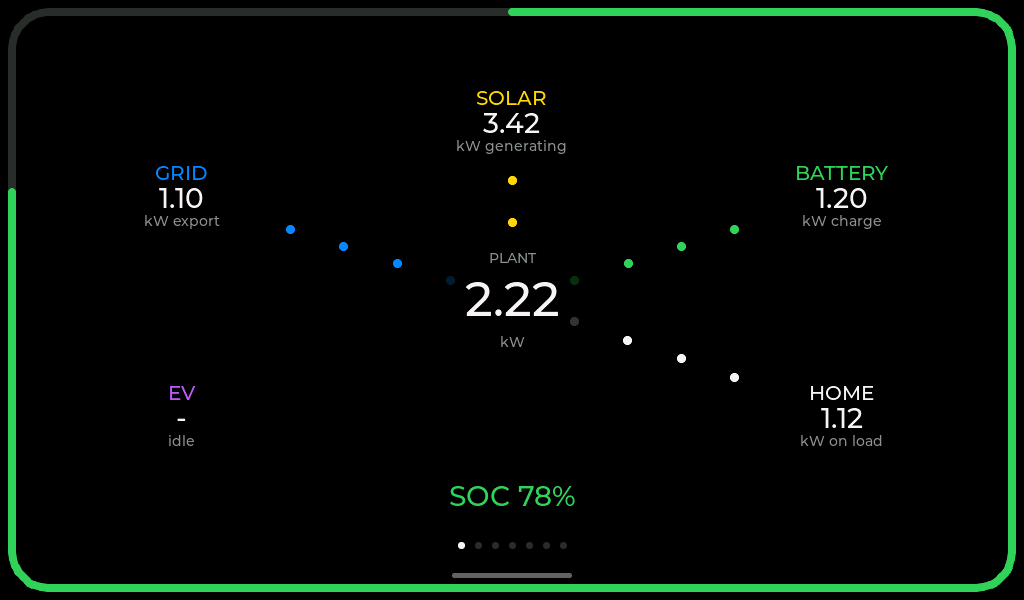
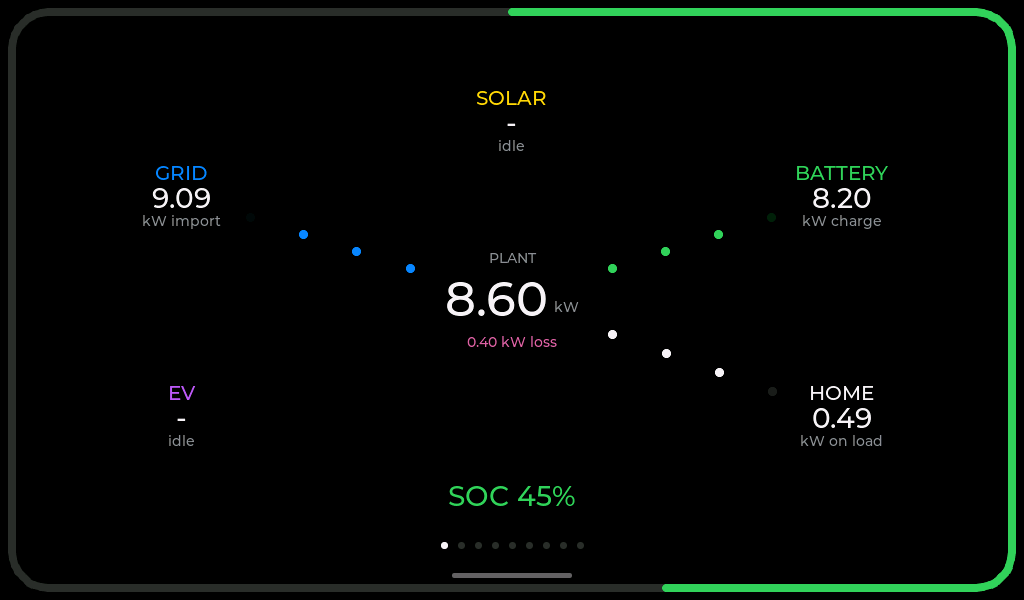
Describe AC-side house load and losses in the README
The loss line and LOSSES sink in the screen descriptions, the EV charger
setting and the formulas under Home Assistant, with fresh screenshots.
UPSTREAM.md logs the pull and adds the Home Assistant history gap: the
restored load curve still counts the losses as house.

diff --git a/README.md b/README.md
@@ -84,11 +84,11 @@ untouched.
 | | |
 |:--:|:--:|
 | <img src="docs/img/power.png" width="420" alt="Power flow"> | <img src="docs/img/battery.png" width="420" alt="Battery"> |
-| **Power**: what is happening right now. Solar at the top, battery and home to the right, grid and EV to the left, all around the plant in the middle. Dots run along each leg in the direction the power is going: slowly near zero, faster as it rises towards 20 kW. The bar around the edge is your battery's state of charge.<br><br>*Works on all three sources when the values are available.* | **Battery**: charge level, kWh stored, and what it is doing now, over the day's charge curve. Health and temperature on the right.<br><br>*Works on all three sources. On Modbus, temperature needs an inverter added under Devices; on Home Assistant, each figure needs its sensor chosen.* |
+| **Power**: what is happening right now. Solar at the top, battery and home to the right, grid and EV to the left, all around the plant in the middle, which shows its own power and, below it in pink, what the system is losing in conversion and standby. Dots run along each leg in the direction the power is going: slowly near zero, faster as it rises towards 20 kW. The bar around the edge is your battery's state of charge.<br><br>*Works on all three sources when the values are available.* | **Battery**: charge level, kWh stored, and what it is doing now, over the day's charge curve. Health and temperature on the right.<br><br>*Works on all three sources. On Modbus, temperature needs an inverter added under Devices; on Home Assistant, each figure needs its sensor chosen.* |
 | <img src="docs/img/solar.png" width="420" alt="Solar"> | <img src="docs/img/load.png" width="420" alt="Home use"> |
 | **Solar**: generated so far today and live output, over the day's curve with the forecast behind it. The forecast total and what is still to come are on the right. The bar around the edge is progress against the day's forecast.<br><br>*Works on all three sources.* | **Home use**: everything used today, with what is being drawn now and how self-sufficient you have been.<br><br>*Partial on Modbus and Home Assistant.* The total, live figure and locally recorded curve work. The breakdown by source needs a **SigenStorDisplay Server**. |
 | <img src="docs/img/grid.png" width="420" alt="Grid"> | <img src="docs/img/flows.png" width="420" alt="Energy flows"> |
-| **Grid**: imported and exported today, live frequency and voltage, and the day's import above the line and export below it.<br><br>*Works on all three sources.* Frequency and voltage need an inverter added on Modbus, and are not available from Home Assistant. | **Energy flows**: where today's energy came from and where it went. Sources down the left, destinations down the right, one ribbon per path.<br><br>**SigenStorDisplay Server only.** |
+| **Grid**: imported and exported today, live frequency and voltage, and the day's import above the line and export below it.<br><br>*Works on all three sources.* Frequency and voltage need an inverter added on Modbus, and are not available from Home Assistant. | **Energy flows**: where today's energy came from and where it went. Sources down the left, destinations down the right, one ribbon per path, including what the system itself lost on the way (SigenStorDisplay 0.47.3 onwards).<br><br>**SigenStorDisplay Server only.** |
 | <img src="docs/img/cost.png" width="420" alt="Cost"> | <img src="docs/img/events.png" width="420" alt="Events"> |
 | **Cost**: what you have saved today and the unit rate you are paying right now.<br><br>**SigenStorDisplay Server only.** | **Events**: Octopus Saving Sessions, Happy Hours, other free-import periods and Axle events. The live one, or else the next booked, in a card across the top, with the battery's run; the ones before it underneath, newest first, each with its result: how much was cut and the points, how much came in free, or what was exported and earned.<br><br>**SigenStorDisplay Server only**, from version 0.45.0. |
 | <img src="docs/img/environment.png" width="420" alt="Environment"> | |
@@ -228,8 +228,23 @@ access at once.
 4. **Sensors: Choose.** Tap each figure and pick its sensor from Home Assistant's own
    list. The list is filtered to sensors in a unit that figure can use, and shows each
    one's current value, so you can see which is live.
+5. **EV charger**, under EV power: tap it to step through **Auto**, **AC** and **DC**.
+   Only an AC charger is on the house wiring, so only an AC charger comes off house
+   load. Auto treats a sensor whose ID contains `dc_charger` as DC (Sigen's own DC
+   charger sensor) and anything else as AC, and shows which it chose.
 
-<p align="center"><img src="docs/img/settings-ha-sensors.png" width="480" alt="Picking the sensor for home power, with each sensor's name, entity ID and live value"></p>
+<p align="center"><img src="docs/img/settings-ha-sensors.png" width="480" alt="The Home Assistant sensors list: the sensor chosen for each figure, and the EV charger set to Auto, reading as DC"></p>
+
+**House load and losses.** With no home/load sensor chosen, the panel works house load
+out on the AC side, as SigenStorDisplay does: `home = max(0, grid + plant − AC charger)`.
+That leaves the system's own losses (conversion, standby, battery heating) out of the
+house figure and shows them under PLANT on the Power screen instead:
+`losses = PV − battery − plant − DC charger`. The plant's power is negative while it takes
+AC in. Without a plant sensor, house load falls back to `PV − battery + grid − EV`, which
+counts the losses as house, and no loss is shown. A home/load sensor you choose is used as
+it is; Sigen's own consumed-power sensor may count the losses as house, so leave it unread
+to have the panel do the AC-side sum. Modbus works the same way from the plant's
+registers, with the AC and DC chargers read apart.
 
 The panel sends one [`POST /api/template`](https://developers.home-assistant.io/docs/api/rest/#post-apitemplate)
 per reading. Home Assistant answers with only the chosen sensors and their units, so the

diff --git a/UPSTREAM.md b/UPSTREAM.md
@@ -139,6 +139,7 @@ one up, and delete the row once the pull lands and is in the pull log.
 | 2026-10-27, Phase 0a | `src/device/modbus_api.cpp` | Calls `NetworkClient::flush()`, which Arduino 3.3 deprecates in favour of `clear()`. Fix it when SigenStorPuck moves to 3.3.8 (step 3 of the plan above). The panel's own copy in `settings_server.cpp` went with the web interface | A deprecation warning on every panel build. It still works |
 | 2026-10-27, settings sheet | `src/device/updater.h` | Optional. The panel shows install progress, through its own `updater_progress.h` beside the verbatim header. If the Puck wants a progress ring too, add `updater_progress_percent()` to `updater.h` upstream and delete the panel's extra header | Nothing breaks: the panel's addition sits beside the shared header |
 | 2026-10-28, settings sheet | `src/enrol_url.{h,cpp}` | Optional. Take in `kiosk_code_tidy()` from the panel's `src/kiosk_code.{h,cpp}` (beside `enrol_url_parse()`, or as its own shared file) and use it on the web page's token field. The header also predates v0.38: it says the device never asks for the server and token apart, and calls the token 43 characters. Codes are now 20 | The panel keeps its own `kiosk_code.{h,cpp}`. The Puck's web page saves a typed code as given, spaces and capitals included; the server still matches it |
+| 2026-11-26, losses | `src/home_assistant_history.{h,cpp}` | The day's load curve restored from Home Assistant's history is still `PV − battery + grid` when no home sensor is chosen, so it counts the system's losses as house. Since 0.17.1 the live figure is AC-side. Fetch the plant sensor's history too, and use `grid + plant + DC charger` (house plus EV, as the Load series holds), with `ha_ev_is_dc()` saying which kind the EV sensor is | On Home Assistant with no home sensor, the restored part of today's Home use curve sits higher than the live part by the losses, about 0.4 kW on a grid-charging night |
 | 2026-10-27, Phase 0a | `src/display.h`, `src/touch.h` | Their comments describe the CO5300 panel and CST9217 touch. The contract is generic, so describe it generically | Comments name the wrong chips. The functions are right |
 
 ## Pull log
@@ -149,4 +150,5 @@ one up, and delete the row once the pull lands and is in the pull log.
 | 2026-10-27 | `18c8451` | `src/ui/chart_band.cpp`: the column cap follows `PUCK_LCD_WIDTH`, so the panel's charts can run the full 1024 px. Made upstream for this repo |
 | 2026-10-27 | `f414186` | `src/ui/chart_band.cpp`: an optional anti-aliased chart outline, chosen by `PUCK_CHART_SMOOTH_EDGE` in the board profile; on here, off on both Puck boards. Made upstream for this repo |
 | 2026-11-14 | `debfd7c` (v0.16.0) | The Events screen's shared half, made upstream for this repo: `src/events.{h,cpp}` (the /api/events model, parser and wording), the fetch in `sigen_api` and `poller` (server source, every 5 min), the `events` capability in `data_source`, `history_timezone()`, `PUCK_SCREEN_EVENTS` and 16-bit `PuckScreenMask` in `ui/ui.h`, `ui/screen_events.h`, the selftest cases and `test/fixtures/events.json`. Fonts regenerated with the en dash (U+2013); the panel's subsets were identical to the Puck's, so the files were copied |
+| 2026-11-26 | `9b790a9` (v0.17.1) | House load on the AC side and the system's losses, matching SigenStorDisplay 0.47.3: the new `src/power_balance.{h,cpp}`, used by `modbus_regs` (AC and DC chargers read apart) and `home_assistant` (`HaEvKind`, `ha_ev_is_dc()`, `HaParseOptions`); `power.losses`, `today.losses` and the `*_losses` flows in `snapshot`; `home_assistant_api` passing the EV kind; the selftest's five reference cases; fixtures 02 and 04 with losses, and the new 10 and 11, grid-charging nights. The panel's own half: `ha_ev_kind` in `settings`, the EV charger row on the sensors list, `PUCK_COLOUR_LOSSES`, and the Flows and Power screens |
 | 2026-11-23 | `846660e` | `src/ui/ui.h`: `PUCK_SCREEN_ENVIRONMENT` (id 9) for the panel's EnViOT screen, `PUCK_PANEL_ONLY_SCREENS`, which every Puck UI drops, and `UiConfig::with_environment_screen` (false unless the panel sets it). Made upstream for this repo |
